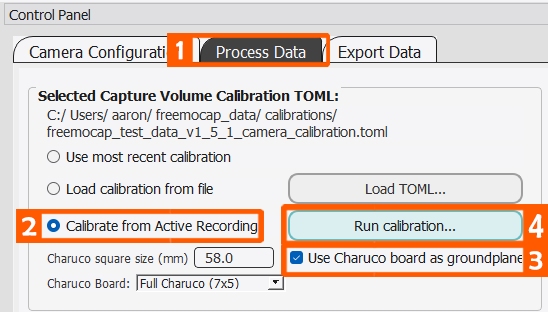
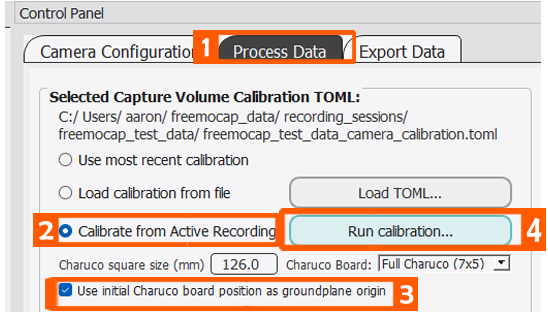
Update groundplane calibration docs

diff --git a/docs/Writerside/topics/resources/groundplane_calibration.md b/docs/Writerside/topics/resources/groundplane_calibration.md
@@ -1,8 +1,4 @@
 # Ground Plane Calibration
-> Ground plane calibration is a feature-in-progress, which means it is available only by installing FreeMoCap from
-> source and switching to the 'charuco_groundplane' branch
-{style = "note"}
->
 
 ## What is ground plane calibration?
 Ground plane calibration sets the 3D world so that “up” (the Z axis) means up and the ground is where it should be.
@@ -25,16 +21,16 @@ And that's the short-and-sweet version! Detailed instructions follow below.
 
 ![image](how_to_recording_calibration.png)
 
-1. Choose the `Record Calibration Videos` option. Set all other parameters (e.g. square size) as normal
-2. Check the `Use Charuco as groundplane` checkbox and then proceed with recording your calibration according to the instructions above
+1. Choose the `Record Calibration Videos` option. Set all other parameters (e.g. square size, board choice) as normal.
+2. Check the `Use initial board position as origin` checkbox and then proceed with recording your calibration according to the instructions above
 
 **B. If processing an external calibration recording/reprocessing an existing calibration recording:**
 
 ![how_to_processing_calibration.png](how_to_processing_calibration.png)
 
 1. Go to the `Process Data` tab under the `Control Panel`
-2. Choose `Calibrate from Active Recording`
-3. Check the `Use Charuco as groundplane` checkbox
+2. Choose `Calibrate from Active Recording`. Set all other parameters (e.g. square size, board choice) as normal.
+3. Check the `Use initial Charuco board position as groundplane origin` checkbox
 4. Press `Run Calibration`
 
 
